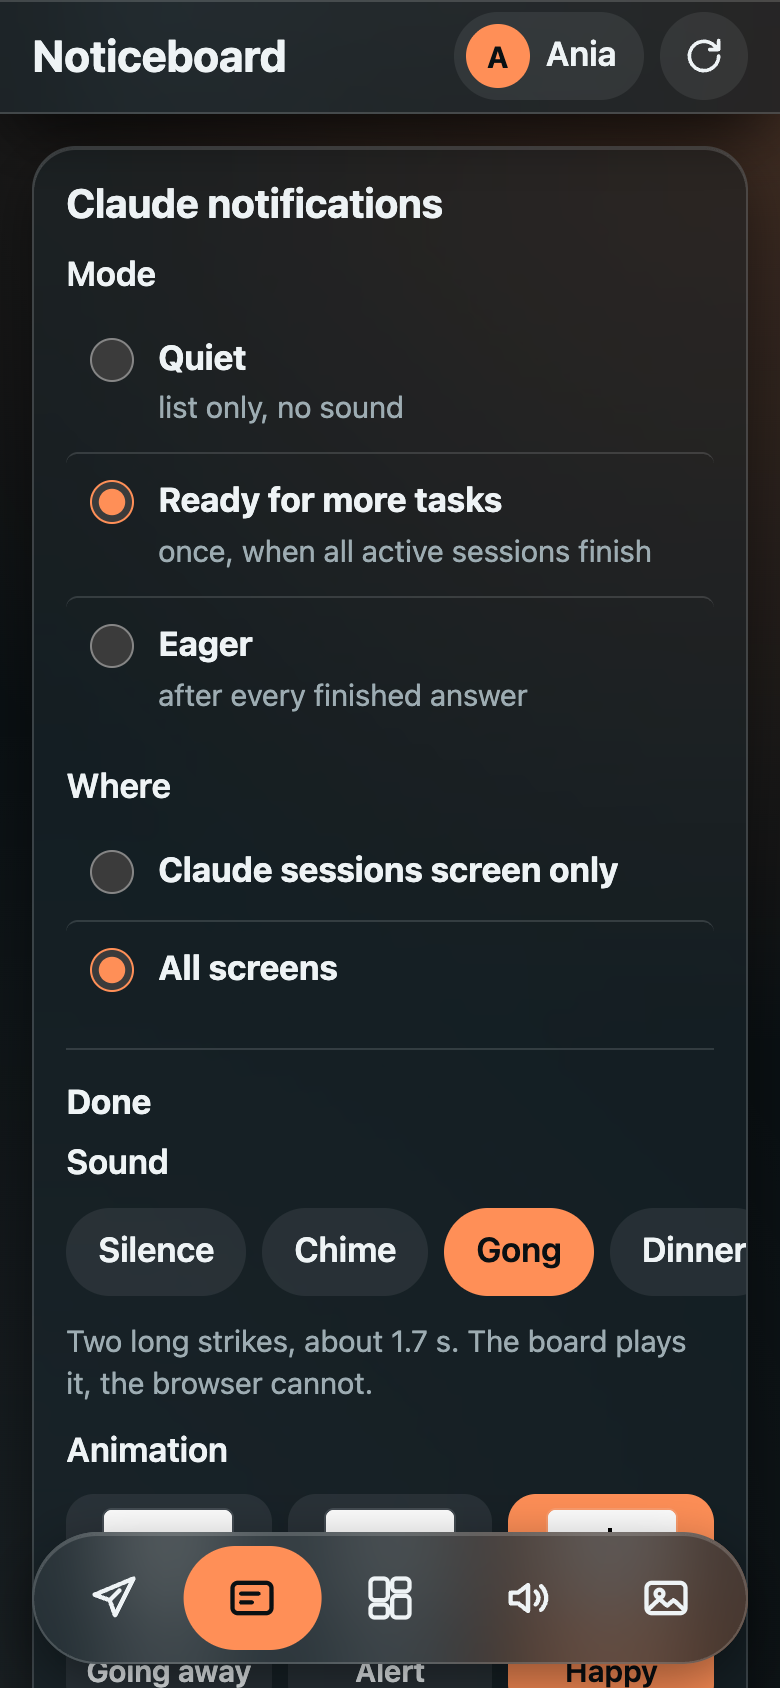
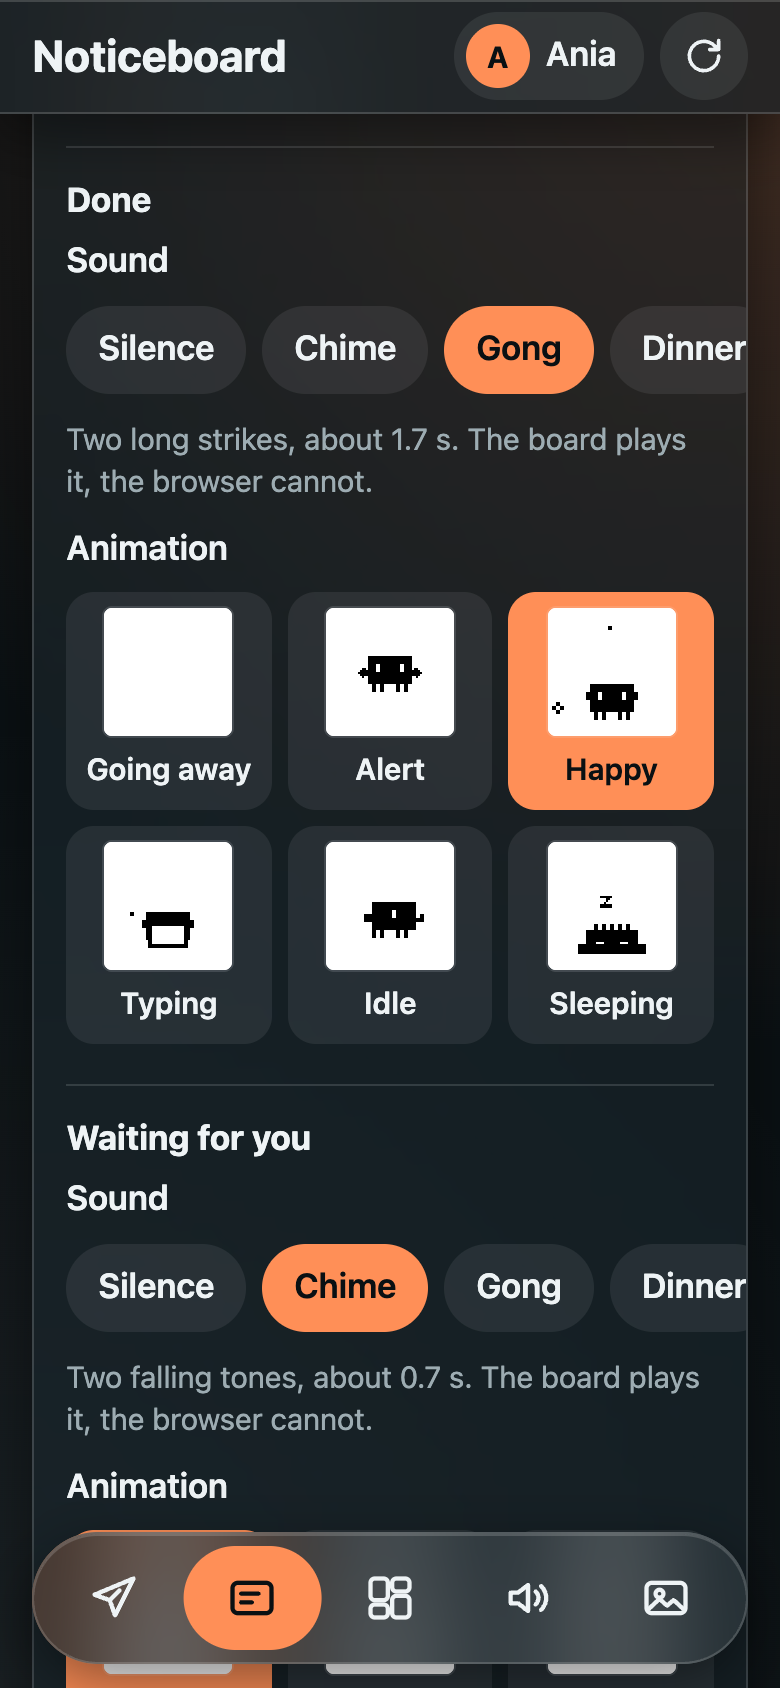
Show three dark Board tab screenshots side by side in the README

diff --git a/README.md b/README.md
@@ -59,17 +59,15 @@ The app is a PWA served by the same PHP server. It runs on any phone, installs t
   <img src="docs/images/app-dashboard-dark.png" width="200" alt="App dashboard in dark mode: sessions with model, context use and task progress, plus the five-hour and weekly limits">
   <img src="docs/images/app-dashboard-light.png" width="200" alt="App dashboard in light mode">
   <img src="docs/images/app-send-light.png" width="200" alt="Sending a message with a sound">
-  <img src="docs/images/app-board-dark.png" width="200" alt="Board settings: the active view and the device status">
 </p>
 
-<p align="center"><sub>Dashboard (dark and light) · Send a message · Board settings</sub></p>
+<p align="center"><sub>Dashboard (dark and light) · Send a message</sub></p>
 
 <p align="center">
-  <img src="docs/images/app-board-settings-light.png" width="200" alt="Board settings in light mode: the language on the board screen and the Claude notification mode (quiet, ready for more tasks, eager) and where it shows">
-  <img src="docs/images/app-board-notify-dark.png" width="200" alt="Claude notifications in dark mode: the sound and the Clawd animation the board plays when a session is done">
+  <img src="docs/images/app-board-dark.png" width="200" alt="Board tab: the active view and the device status">
+  <img src="docs/images/app-board-settings-dark.png" width="200" alt="Board tab: how often the board checks the server, the language on the board screen and the start of the Claude notification settings">
+  <img src="docs/images/app-board-notify-dark.png" width="200" alt="Board tab: the sound and the Clawd animation the board plays when a Claude session is done or waiting for you">
 </p>
-
-<p align="center"><sub>Board language and notification mode · Sound and animation for Claude notifications</sub></p>
 
 ## Highlights
 
